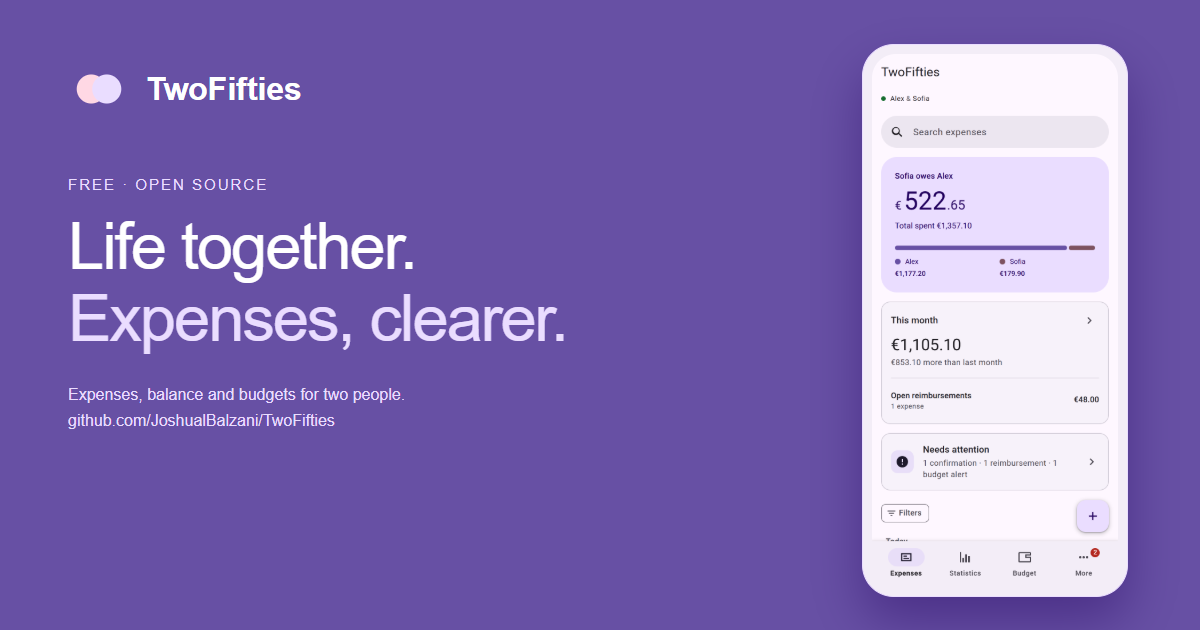
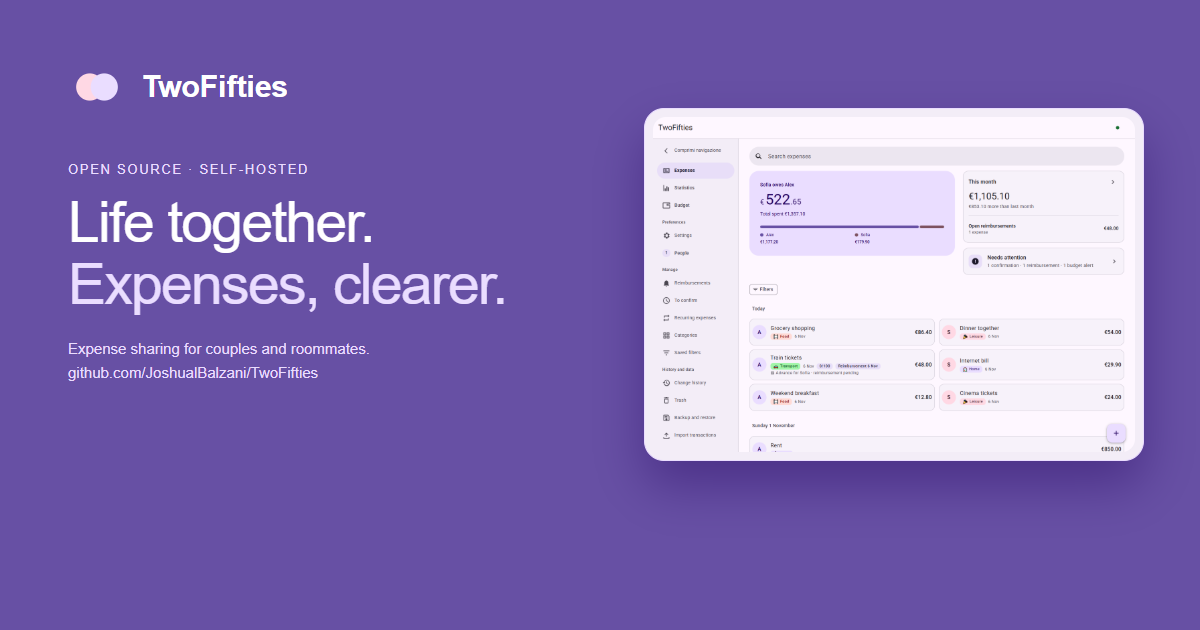
Improve desktop presentation and project documentation

diff --git a/website/assets/site.css b/website/assets/site.css
@@ -11,3 +11,11 @@
 .cookie-banner{position:fixed;z-index:20;inset:auto 20px 20px;max-width:680px;margin-left:auto;padding:24px;border:1px solid var(--line);border-radius:20px;background:var(--surface);box-shadow:0 12px 48px #0003}.cookie-banner[hidden]{display:none}.cookie-banner h2{font-size:20px;margin:0 0 8px}.cookie-banner p{margin:0 0 16px;color:var(--muted)}.cookie-actions{display:flex;gap:12px;flex-wrap:wrap}.cookie-actions button,.cookie-settings{font:inherit;cursor:pointer}.cookie-settings{border:0;padding:0;background:none;color:inherit;text-decoration:underline}.cookie-actions .button{cursor:pointer}@media(max-width:600px){.cookie-banner{inset:auto 10px 10px;padding:18px}}
 
 .cookie-banner{position:fixed;z-index:20;inset:auto 20px 20px;max-width:680px;margin-left:auto;padding:24px;border:1px solid var(--line);border-radius:20px;background:var(--surface);box-shadow:0 12px 48px #0003}.cookie-banner[hidden]{display:none}.cookie-banner h2{font-size:20px;margin:0 0 8px}.cookie-banner p{margin:0 0 16px;color:var(--muted)}.cookie-actions{display:flex;gap:12px;flex-wrap:wrap}.cookie-actions button,.cookie-settings{font:inherit;cursor:pointer}.cookie-settings{border:0;padding:0;background:none;color:inherit;text-decoration:underline}@media(max-width:600px){.cookie-banner{inset:auto 10px 10px;padding:18px}}
+
+.desktop-showcase{background:var(--high)}
+.desktop-preview-grid{display:grid;grid-template-columns:repeat(2,minmax(0,1fr));gap:24px;align-items:start}
+.desktop-preview{min-width:0;margin:0;padding:12px;border:1px solid var(--line);border-radius:20px;background:var(--surface);box-shadow:var(--shadow)}
+.desktop-preview img{width:100%;aspect-ratio:1.44;object-fit:contain;border:1px solid var(--line);border-radius:12px;background:var(--high)}
+.desktop-preview figcaption{padding:14px 6px 4px;text-align:center;font-size:14px;font-weight:500;color:var(--muted)}
+.desktop-showcase>.wrap>.gallery-link{margin-top:24px}
+@media(max-width:800px){.desktop-preview-grid{grid-template-columns:1fr;gap:20px}.desktop-preview.settings-preview{width:100%}}

diff --git a/docs/screenshots/it/README.md b/docs/screenshots/it/README.md
@@ -74,11 +74,11 @@
 <tr><td width="50%" valign="top"><a href="light/10-budget.png"><img src="light/10-budget.png" width="300" alt="Budget per categoria — tema chiaro" loading="lazy"></a></td><td width="50%" valign="top"><a href="dark/10-budget.png"><img src="dark/10-budget.png" width="300" alt="Budget per categoria — tema scuro" loading="lazy"></a></td></tr>
 </table>
 
-## Strumenti organizzati in Altro
+## Strumenti nella barra laterale
 
 <table>
 <tr><th>Tema chiaro</th><th>Tema scuro</th></tr>
-<tr><td width="50%" valign="top"><a href="light/11-more.png"><img src="light/11-more.png" width="300" alt="Strumenti organizzati in Altro — tema chiaro" loading="lazy"></a></td><td width="50%" valign="top"><a href="dark/11-more.png"><img src="dark/11-more.png" width="300" alt="Strumenti organizzati in Altro — tema scuro" loading="lazy"></a></td></tr>
+<tr><td width="50%" valign="top"><a href="light/11-more.png"><img src="light/11-more.png" width="300" alt="Strumenti nella barra laterale — tema chiaro" loading="lazy"></a></td><td width="50%" valign="top"><a href="dark/11-more.png"><img src="dark/11-more.png" width="300" alt="Strumenti nella barra laterale — tema scuro" loading="lazy"></a></td></tr>
 </table>
 
 ## Anticipi e rimborsi
@@ -200,6 +200,38 @@
 <tr><td width="50%" valign="top"><a href="light/28-restore-file.png"><img src="light/28-restore-file.png" width="300" alt="Ripristino da un file JSON — tema chiaro" loading="lazy"></a></td><td width="50%" valign="top"><a href="dark/28-restore-file.png"><img src="dark/28-restore-file.png" width="300" alt="Ripristino da un file JSON — tema scuro" loading="lazy"></a></td></tr>
 </table>
 
+## Schermate desktop
+
+Quattro schermate dell’app desktop con navigazione Material 3, nei temi chiaro e scuro. Sono generate con dati inventati in uno spazio temporaneo isolato.
+
+### Spese e navigazione laterale
+
+<table>
+<tr><th>Tema chiaro</th><th>Tema scuro</th></tr>
+<tr><td width="50%" valign="top"><a href="light/desktop-03-expenses.png"><img src="light/desktop-03-expenses.png" width="440" alt="Spese e navigazione laterale — tema chiaro" loading="lazy"></a></td><td width="50%" valign="top"><a href="dark/desktop-03-expenses.png"><img src="dark/desktop-03-expenses.png" width="440" alt="Spese e navigazione laterale — tema scuro" loading="lazy"></a></td></tr>
+</table>
+
+### Statistiche desktop
+
+<table>
+<tr><th>Tema chiaro</th><th>Tema scuro</th></tr>
+<tr><td width="50%" valign="top"><a href="light/desktop-09-statistics.png"><img src="light/desktop-09-statistics.png" width="440" alt="Statistiche desktop — tema chiaro" loading="lazy"></a></td><td width="50%" valign="top"><a href="dark/desktop-09-statistics.png"><img src="dark/desktop-09-statistics.png" width="440" alt="Statistiche desktop — tema scuro" loading="lazy"></a></td></tr>
+</table>
+
+### Categorie desktop
+
+<table>
+<tr><th>Tema chiaro</th><th>Tema scuro</th></tr>
+<tr><td width="50%" valign="top"><a href="light/desktop-15-categories.png"><img src="light/desktop-15-categories.png" width="440" alt="Categorie desktop — tema chiaro" loading="lazy"></a></td><td width="50%" valign="top"><a href="dark/desktop-15-categories.png"><img src="dark/desktop-15-categories.png" width="440" alt="Categorie desktop — tema scuro" loading="lazy"></a></td></tr>
+</table>
+
+### Impostazioni desktop
+
+<table>
+<tr><th>Tema chiaro</th><th>Tema scuro</th></tr>
+<tr><td width="50%" valign="top"><a href="light/desktop-22-settings.png"><img src="light/desktop-22-settings.png" width="440" alt="Impostazioni desktop — tema chiaro" loading="lazy"></a></td><td width="50%" valign="top"><a href="dark/desktop-22-settings.png"><img src="dark/desktop-22-settings.png" width="440" alt="Impostazioni desktop — tema scuro" loading="lazy"></a></td></tr>
+</table>
+
 ## Rigenerare le immagini
 
-Esegui `node scripts/screenshots.cjs` dalla radice del repository. Puoi selezionare una variante con `--language=it --theme=dark`. Poi esegui `node scripts/build-galleries.cjs`. Le immagini hanno viewport 430 × 932 e risoluzione 2×. Lo script non usa i dati dell’istanza personale.
+Esegui `node scripts/screenshots.cjs` dalla radice del repository. Puoi selezionare una variante con `--language=it --theme=dark`. Per controllare tutti i flussi desktop aggiungi `--desktop`; le 28 schermate vengono salvate in `artifacts/desktop-gallery/`. Poi esegui `node scripts/build-galleries.cjs` per aggiornare le gallerie. Le catture mobile usano viewport 430 × 932 e risoluzione 2×; quelle desktop 1440 × 1000. Gli script usano soltanto dati inventati e uno spazio temporaneo isolato.

diff --git a/docs/screenshots/en/README.md b/docs/screenshots/en/README.md
@@ -74,11 +74,11 @@
 <tr><td width="50%" valign="top"><a href="light/10-budget.png"><img src="light/10-budget.png" width="300" alt="Budgets by category — light mode" loading="lazy"></a></td><td width="50%" valign="top"><a href="dark/10-budget.png"><img src="dark/10-budget.png" width="300" alt="Budgets by category — dark mode" loading="lazy"></a></td></tr>
 </table>
 
-## Organized tools in More
+## Tools in the desktop navigation
 
 <table>
 <tr><th>Light mode</th><th>Dark mode</th></tr>
-<tr><td width="50%" valign="top"><a href="light/11-more.png"><img src="light/11-more.png" width="300" alt="Organized tools in More — light mode" loading="lazy"></a></td><td width="50%" valign="top"><a href="dark/11-more.png"><img src="dark/11-more.png" width="300" alt="Organized tools in More — dark mode" loading="lazy"></a></td></tr>
+<tr><td width="50%" valign="top"><a href="light/11-more.png"><img src="light/11-more.png" width="300" alt="Tools in the desktop navigation — light mode" loading="lazy"></a></td><td width="50%" valign="top"><a href="dark/11-more.png"><img src="dark/11-more.png" width="300" alt="Tools in the desktop navigation — dark mode" loading="lazy"></a></td></tr>
 </table>
 
 ## Advances and reimbursements
@@ -200,6 +200,38 @@
 <tr><td width="50%" valign="top"><a href="light/28-restore-file.png"><img src="light/28-restore-file.png" width="300" alt="Restore from a JSON file — light mode" loading="lazy"></a></td><td width="50%" valign="top"><a href="dark/28-restore-file.png"><img src="dark/28-restore-file.png" width="300" alt="Restore from a JSON file — dark mode" loading="lazy"></a></td></tr>
 </table>
 
+## Desktop screens
+
+Four desktop app screens with Material 3 navigation, in light and dark themes. All captures use fictitious data in an isolated temporary workspace.
+
+### Expenses with desktop navigation
+
+<table>
+<tr><th>Light mode</th><th>Dark mode</th></tr>
+<tr><td width="50%" valign="top"><a href="light/desktop-03-expenses.png"><img src="light/desktop-03-expenses.png" width="440" alt="Expenses with desktop navigation — light mode" loading="lazy"></a></td><td width="50%" valign="top"><a href="dark/desktop-03-expenses.png"><img src="dark/desktop-03-expenses.png" width="440" alt="Expenses with desktop navigation — dark mode" loading="lazy"></a></td></tr>
+</table>
+
+### Desktop statistics
+
+<table>
+<tr><th>Light mode</th><th>Dark mode</th></tr>
+<tr><td width="50%" valign="top"><a href="light/desktop-09-statistics.png"><img src="light/desktop-09-statistics.png" width="440" alt="Desktop statistics — light mode" loading="lazy"></a></td><td width="50%" valign="top"><a href="dark/desktop-09-statistics.png"><img src="dark/desktop-09-statistics.png" width="440" alt="Desktop statistics — dark mode" loading="lazy"></a></td></tr>
+</table>
+
+### Desktop categories
+
+<table>
+<tr><th>Light mode</th><th>Dark mode</th></tr>
+<tr><td width="50%" valign="top"><a href="light/desktop-15-categories.png"><img src="light/desktop-15-categories.png" width="440" alt="Desktop categories — light mode" loading="lazy"></a></td><td width="50%" valign="top"><a href="dark/desktop-15-categories.png"><img src="dark/desktop-15-categories.png" width="440" alt="Desktop categories — dark mode" loading="lazy"></a></td></tr>
+</table>
+
+### Desktop settings
+
+<table>
+<tr><th>Light mode</th><th>Dark mode</th></tr>
+<tr><td width="50%" valign="top"><a href="light/desktop-22-settings.png"><img src="light/desktop-22-settings.png" width="440" alt="Desktop settings — light mode" loading="lazy"></a></td><td width="50%" valign="top"><a href="dark/desktop-22-settings.png"><img src="dark/desktop-22-settings.png" width="440" alt="Desktop settings — dark mode" loading="lazy"></a></td></tr>
+</table>
+
 ## Reproduce the images
 
-Run `node scripts/screenshots.cjs` from the repository root. Select a variant with `--language=en --theme=dark` if needed, then run `node scripts/build-galleries.cjs`. Captures use a 430 × 932 viewport at 2× resolution. The script does not use your personal server data.
+Run `node scripts/screenshots.cjs` from the repository root. Select a mobile variant with `--language=en --theme=dark`; add `--desktop` to audit all 28 desktop flows into `artifacts/desktop-gallery/`. Run `node scripts/build-galleries.cjs` to rebuild the galleries. Mobile captures use a 430 × 932 viewport at 2×; desktop captures use 1440 × 1000. The scripts use fictitious data in an isolated temporary workspace.

diff --git a/README.it.md b/README.it.md
@@ -1,10 +1,10 @@
 <div align="center">
 
-# TwoFifties
+# TwoFifties — App self-hosted per spese condivise in due
 
-### Dividete le spese. Tenete chiaro il saldo.
+### Expense tracker open source e bill splitting per coppie e coinquilini.
 
-L'app per gestire le spese di due persone: un'interfaccia Material 3, divisioni flessibili e una visione condivisa delle uscite quotidiane. Da ospitare sul proprio server.
+TwoFifties è un’app gratuita e self-hosted per coppie, coinquilini e amici che condividono le spese. Dividi le bollette in modo flessibile, tieni sotto controllo rimborsi e budget e vedi chi deve cosa. La esegui con Docker o Node.js sul tuo server.
 
 **Sviluppato da JOSHBALZANI** · [English](README.md) · [Galleria screenshot](docs/screenshots/it/README.md)
 
@@ -20,6 +20,17 @@ L'app per gestire le spese di due persone: un'interfaccia Material 3, divisioni 
 <tr><th colspan="3">Tema scuro</th></tr>
 <tr><td align="center"><img src="docs/screenshots/it/dark/03-expenses.png" width="260" alt="Spese e saldo — tema scuro"></td><td align="center"><img src="docs/screenshots/it/dark/05-new-expense.png" width="260" alt="Nuova spesa — tema scuro"></td><td align="center"><img src="docs/screenshots/it/dark/09-statistics.png" width="260" alt="Statistiche — tema scuro"></td></tr>
 </table>
+
+### App desktop · Material 3 chiaro e scuro
+
+<table>
+<tr><th>Spese e navigazione laterale · chiaro</th><th>Impostazioni e navigazione laterale · chiaro</th></tr>
+<tr><td><img src="docs/screenshots/it/light/desktop-03-expenses.png" width="480" alt="Expense tracker TwoFifties desktop con navigazione Material 3 espandibile, tema chiaro"></td><td><img src="docs/screenshots/it/light/desktop-22-settings.png" width="480" alt="Impostazioni TwoFifties desktop, tema chiaro"></td></tr>
+<tr><th>Spese e navigazione laterale · scuro</th><th>Impostazioni e navigazione laterale · scuro</th></tr>
+<tr><td><img src="docs/screenshots/it/dark/desktop-03-expenses.png" width="480" alt="Expense tracker TwoFifties desktop con navigazione Material 3 espandibile, tema scuro"></td><td><img src="docs/screenshots/it/dark/desktop-22-settings.png" width="480" alt="Impostazioni TwoFifties desktop, tema scuro"></td></tr>
+</table>
+
+**Avvio rapido:** installa con Docker Compose o Node.js 24+. Questo repository contiene il codice dell’app; il [sito GitHub Pages](https://joshualbalzani.github.io/TwoFifties/) presenta il progetto ma non ospita le API. Più avanti trovi le guide per Docker, Node.js e TrueNAS.
 
 ## Le spese di tutti i giorni, insieme
 
@@ -54,9 +65,9 @@ Per esempio, se Alex paga €80 per un acquisto interamente a carico di Sofia, l
 | **Backup e file** | Crea e ripristina backup, importa JSON/CSV ed esporta i movimenti in Excel. |
 | **Preferenze** | Modifica i nomi, scegli tema chiaro/scuro/sistema e imposta italiano o inglese sul singolo dispositivo. |
 
-## Un'interfaccia pensata per il telefono
+## Material 3 su telefono e desktop
 
-La navigazione inferiore mette a portata di mano Spese, Statistiche, Budget e Altro. Gli strumenti sono raccolti per funzione; le impostazioni distinguono persone, aspetto, preferenze per le nuove spese e dati. Superfici, tipografia e ruoli colore Material 3 mantengono una struttura coerente nei temi chiaro e scuro. Le gesture supportano la chiusura dei pannelli e le interazioni di navigazione previste.
+Su telefono, la barra inferiore mette a portata di mano Spese, Statistiche, Budget e Altro. Su desktop, la barra laterale espandibile mostra direttamente tutte le destinazioni e può ridursi a una rail di icone. Finestre e moduli usano lo spazio largo; con finestre basse la navigazione resta scorrevole. Superfici, tipografia e ruoli colore Material 3 mantengono coerenza nei temi chiaro e scuro.
 
 Al primo avvio una presentazione guidata introduce l'app. Puoi saltare la spiegazione e le preferenze facoltative: **i due nomi rimangono obbligatori e devono essere diversi**. Una nuova installazione parte vuota, senza spese o dati personali precompilati.
 

diff --git a/README.md b/README.md
@@ -1,10 +1,10 @@
 <div align="center">
 
-# TwoFifties
+# TwoFifties — Self-hosted expense sharing for couples and roommates
 
-### Share the expenses. Keep the balance clear.
+### Open-source expense tracker and bill splitting for two people.
 
-A self-hosted expense-sharing app for two people, with a Material 3 interface, flexible splits and a shared view of everyday spending.
+TwoFifties is a free, self-hosted shared expense tracker for couples, roommates and friends. Split bills flexibly, track reimbursements and budgets, and see who owes what. Run it with Docker or Node.js on your own server.
 
 **Developed by JOSHBALZANI** · [Italiano](README.it.md) · [Screenshot gallery](docs/screenshots/en/README.md)
 
@@ -20,6 +20,17 @@ A self-hosted expense-sharing app for two people, with a Material 3 interface, f
 <tr><th colspan="3">Dark mode</th></tr>
 <tr><td align="center"><img src="docs/screenshots/en/dark/03-expenses.png" width="260" alt="Expenses and balance — dark"></td><td align="center"><img src="docs/screenshots/en/dark/05-new-expense.png" width="260" alt="New expense — dark"></td><td align="center"><img src="docs/screenshots/en/dark/09-statistics.png" width="260" alt="Statistics — dark"></td></tr>
 </table>
+
+### Desktop app · Light and dark Material 3
+
+<table>
+<tr><th>Expenses and desktop navigation · light</th><th>Settings and desktop navigation · light</th></tr>
+<tr><td><img src="docs/screenshots/en/light/desktop-03-expenses.png" width="480" alt="TwoFifties desktop expense tracker with expandable Material 3 navigation, light theme"></td><td><img src="docs/screenshots/en/light/desktop-22-settings.png" width="480" alt="TwoFifties desktop settings in light theme"></td></tr>
+<tr><th>Expenses and desktop navigation · dark</th><th>Settings and desktop navigation · dark</th></tr>
+<tr><td><img src="docs/screenshots/en/dark/desktop-03-expenses.png" width="480" alt="TwoFifties desktop expense tracker with expandable Material 3 navigation, dark theme"></td><td><img src="docs/screenshots/en/dark/desktop-22-settings.png" width="480" alt="TwoFifties desktop settings in dark theme"></td></tr>
+</table>
+
+**Quick start:** install with Docker Compose or Node.js 24+. This repository contains the application source; the [GitHub Pages website](https://joshualbalzani.github.io/TwoFifties/) is a product guide and does not host the app API. Installation guides for Docker, Node.js and TrueNAS are below.
 
 ## Built for everyday life, together
 
@@ -54,9 +65,9 @@ For example, if Alex pays €80 for an item entirely owed by Sofia, the dedicate
 | **Your data** | Create and restore backups, import JSON/CSV and export transactions to Excel. |
 | **Your preferences** | Edit both names, select light/dark/system theme and switch between Italian and English on each device. |
 
-## A mobile interface with room to breathe
+## Material 3 on mobile and desktop
 
-Bottom navigation keeps Expenses, Statistics, Budget and More within reach. Related tools are grouped in More; settings separate people, appearance, defaults and data. Material 3 surfaces, typography and fixed color roles provide a consistent interface in both themes. Touch gestures support sheet dismissal and supported navigation interactions.
+On mobile, bottom navigation keeps Expenses, Statistics, Budget and More within reach. On desktop, an expandable side navigation exposes every destination directly and can collapse to an icon rail. Desktop dialogs and forms use the wider screen; short windows keep the navigation scrollable. Material 3 surfaces, typography and color roles remain consistent in both themes.
 
 The first-run guide introduces the app and asks for the two names. You can skip the introduction and optional preferences; both names remain required and must be different. A new installation contains no personal records or sample transactions.
 

diff --git a/docs/screenshots/README.md b/docs/screenshots/README.md
@@ -2,7 +2,7 @@
 
 Choose your language / Scegli la lingua:
 
-- [English: 28 screens in light and dark mode](en/README.md)
-- [Italiano: 28 schermate nei temi chiaro e scuro](it/README.md)
+- [English: mobile and desktop screenshots](en/README.md)
+- [Italiano: screenshot mobile e desktop](it/README.md)
 
-112 real mobile screenshots in total. All data is fictitious. / 112 screenshot mobile reali in totale, con soli dati inventati.
+128 images in total: 112 mobile and 16 desktop captures across both languages and themes. All sample data is fictitious. / 128 immagini in totale: 112 mobile e 16 desktop, in entrambe le lingue e nei due temi. Tutti i dati sono inventati.
